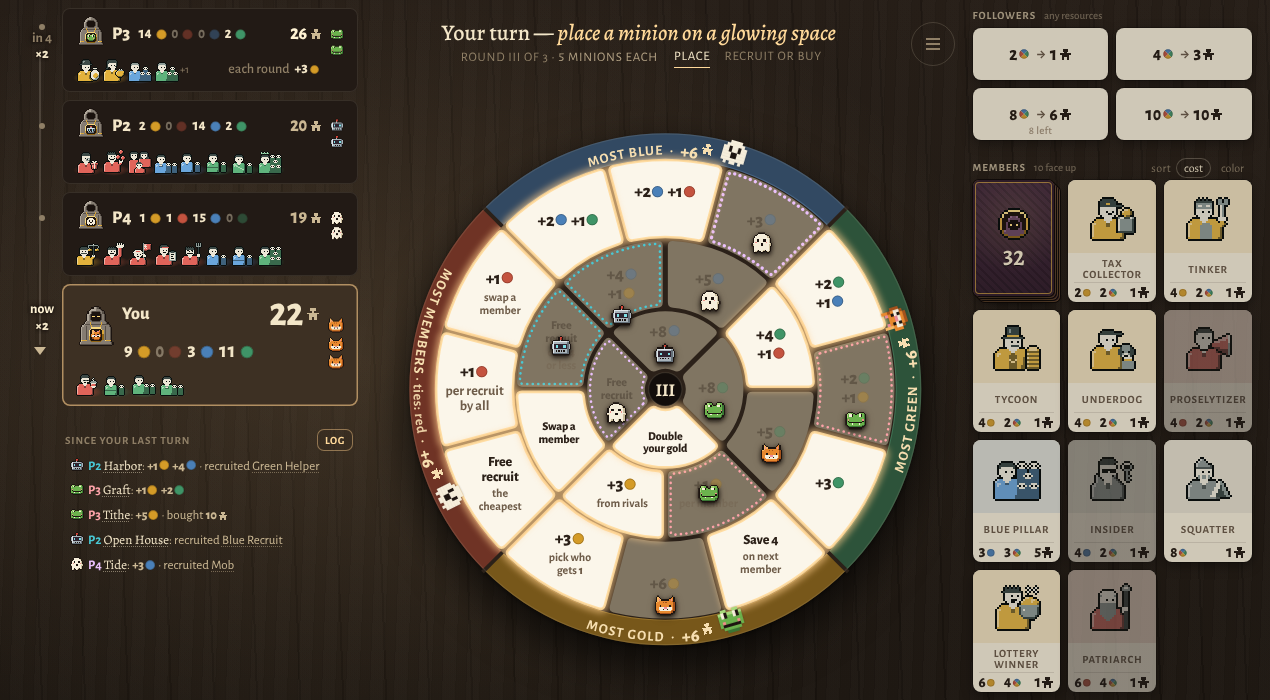
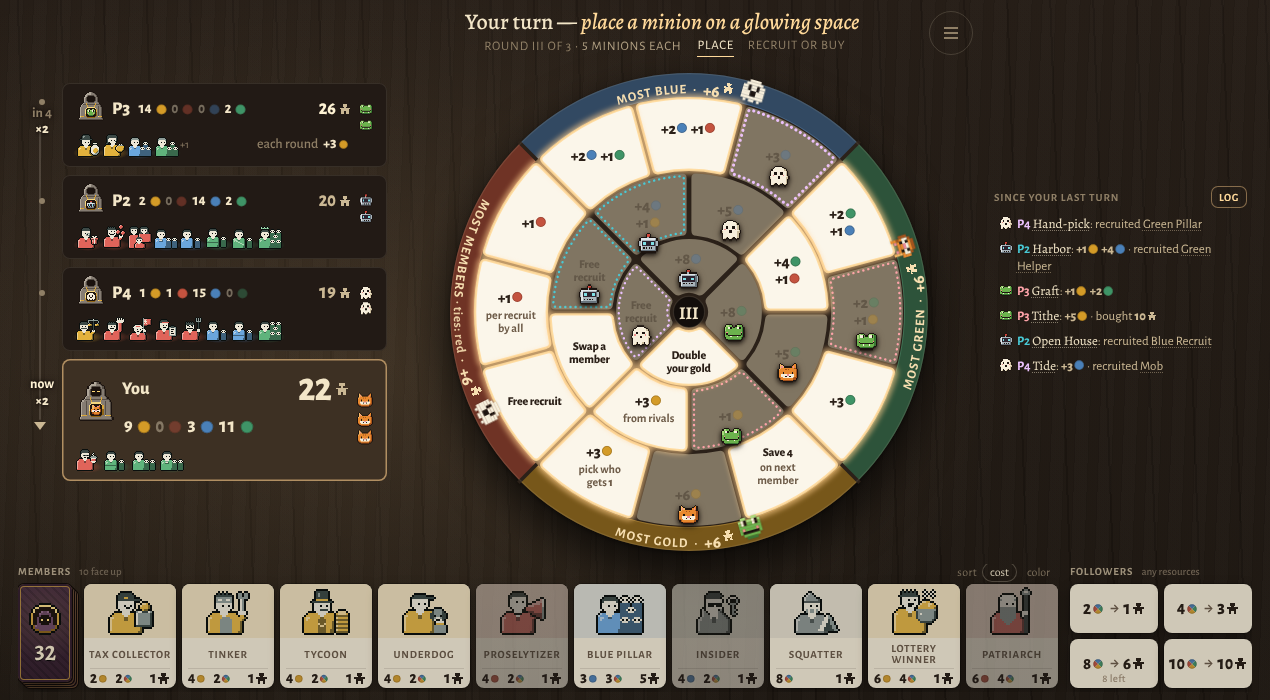
QA: shared e2e answer helper, drivers ported; agents in progress
Claude-Session: https://claude.ai/code/session_017rw3aQa9iJEjdvvwQLY84z

diff --git a/src/v4/game/Reckoning.jsx b/src/v4/game/Reckoning.jsx
@@ -9,13 +9,15 @@
 // the scoring snapshot for an old save.
 import { useEffect, useLayoutEffect, useRef, useState } from 'react';
 import { scoredStandings, standings, playerColor } from '../format.js';
-import { playerAnchor, motionOK, flyToken } from './flight.js';
+import { playerAnchor, motionOK, flyToken, expectArrival, pulse, track } from './flight.js';
+import { MO, flightMs } from '../motion.js';
 import Tick from './Tick.jsx';
 
-export const STEP_MS = 2900;   // one quadrant with a winner: the count, the verdict, the prize's flight, the climb
-export const QUIET_MS = 1700;  // one where no one scores
-export const VERDICT_MS = 1000; // the counts have ticked up: the caption names the winner
-export const FLY_MS = 900;     // the prize's flight from the rim plaque to the winner's total
+// The pace (the motion language's B6, grammar.md; Cory: "readable, one quadrant at a time"): about 1.6s a rim at
+// Steady, every step moving. The rim lights; the counts stamp in seat by seat and tick up (no still "counting…"); the
+// leader's count and its emoji on the rim hop; the prize arcs off the rim's engraving to the winner's count, which
+// rolls the moment it lands; a short rest; the next rim. A rim nobody scores pulses once, dim, and moves on.
+// Every duration scales with the viewer's animation speed (src/v4/motion.js).
 
 /** The round's contests as scored: [{ qid, rule, prize, rows:[{ id, shown }], winners:[ids] }]. */
 export function reckonRows(info) {
@@ -30,6 +32,8 @@ export default function Reckoning({ info, root, onDone, onLamp, onPaid, meId = n
   const rows = useRef(reckonRows(info)).current;
   const [step, setStep] = useState(0); // which quadrant is paying (rows.length = finished)
   const [beat, setBeat] = useState(0); // within it: 0 counting, 1 the verdict (the prize in the air), 2 landed
+  const [seen, setSeen] = useState(0); // how many seats' counts have stamped in so far
+  const [atTop, setAtTop] = useState(false); // the card sits on the far side of the wheel from the rim it scores
   const [spots, setSpots] = useState({}); // pid -> { left, top } of that player's chair, for the count chips
   const done = useRef(false);
   const finish = () => { if (!done.current) { done.current = true; onLamp && onLamp(null); onDone(); } };
@@ -58,24 +62,71 @@ export default function Reckoning({ info, root, onDone, onLamp, onPaid, meId = n
     if (step >= rows.length) { const t = setTimeout(finish, reduced ? 0 : 400); return () => clearTimeout(t); }
     const row = rows[step];
     setBeat(0);
+    setSeen(0);
     if (onLamp) onLamp(row.qid);
     if (typeof window !== 'undefined') window.__patronsReckon = (window.__patronsReckon || 0) + 1;
     const won = row.winners.length > 0;
-    const at = reduced ? { verdict: 0, fly: 0, land: 0, next: 60 } : { verdict: VERDICT_MS, fly: VERDICT_MS + 200, land: VERDICT_MS + 200 + FLY_MS - 60, next: won ? STEP_MS : QUIET_MS };
-    const timers = [setTimeout(() => setBeat(1), at.verdict)];
-    if (won) timers.push(setTimeout(() => {
-      if (!root) return;
-      const plaque = root.querySelector(`[data-plaque="${row.qid}"]`);
+    const plaque = root && root.querySelector(`[data-plaque="${row.qid}"]`);
+    // the card never covers the rim it scores: a rim in the wheel's lower half sends it to the top
+    if (root && plaque) {
+      const stage = root.querySelector('.lt-wheel .stage') || root.querySelector('.stage');
+      const pr = plaque.getBoundingClientRect(), sr = stage ? stage.getBoundingClientRect() : null;
+      setAtTop(!!(sr && pr.top + pr.height / 2 > sr.top + sr.height / 2));
+    }
+    const timers = [];
+    let cancelled = false;
+    if (reduced) {
+      setSeen(row.rows.length); setBeat(1);
+      timers.push(setTimeout(() => { if (onPaid) onPaid(step + 1); setBeat(2); }, 200), setTimeout(() => setStep(s => s + 1), 400));
+      return () => timers.forEach(clearTimeout);
+    }
+    if (!won && !row.rows.some(r => r.shown > 0)) {
+      // nobody scores and nobody counts: the rim pulses once, dim, and the Reckoning moves on
+      if (plaque) pulse(plaque, MO.reckonQuiet);
+      timers.push(setTimeout(() => setBeat(1), 60), setTimeout(() => setStep(s => s + 1), MO.reckonQuiet));
+      return () => timers.forEach(clearTimeout);
+    }
+    // the counts stamp in seat by seat and tick up (the counting is the motion)
+    row.rows.forEach((r, k) => timers.push(setTimeout(() => setSeen(n => Math.max(n, k + 1)), k * MO.reckonStagger)));
+    const counted = (row.rows.length - 1) * MO.reckonStagger + MO.reckonTick;
+    // the verdict: the leader's count and its emoji on the rim hop
+    timers.push(setTimeout(() => {
+      setBeat(1);
       for (const id of row.winners) {
-        // the prize lands on the number it raises: the winner's total on their chair
-        const home = root.querySelector(`.lt-seat[data-pid="${id}"] .cs-total`) || playerAnchor(root, id);
-        if (plaque && home) flyToken(plaque, home, `<b class="reckon-token" style="--pc:${playerColor(id)}">+${row.prize}</b>`, { tag: 'reckon', duration: FLY_MS });
+        const e = root && root.querySelector(`[data-rim-leader="${id}"]`);
+        if (e && e.animate) track(e.animate([{ transform: 'translateY(0)' }, { transform: 'translateY(-5px)', offset: 0.4 }, { transform: 'translateY(0)' }], { duration: MO.hop, easing: 'cubic-bezier(.3,1.4,.5,1)', composite: 'add' }));
       }
-    }, at.fly));
-    // the prize reaches the chairs' totals as it lands
-    timers.push(setTimeout(() => { if (onPaid) onPaid(step + 1); setBeat(2); }, at.land));
-    timers.push(setTimeout(() => setStep(s => s + 1), at.next));
-    return () => timers.forEach(clearTimeout);
+      if (!won) timers.push(setTimeout(() => setStep(s => s + 1), MO.hop + MO.reckonRest));
+    }, counted));
+    if (won) timers.push(setTimeout(() => {
+      // the prize lifts off the rim's engraving and arcs to the number it raises: the winner's total on their chair,
+      // which rolls the moment it lands
+      let landed = 0, longest = 0;
+      const land = () => {
+        if (cancelled || ++landed < row.winners.length) return;
+        for (const id of row.winners) {
+          const home = root && root.querySelector(`.lt-cult-seat[data-seat="${id}"] .cs-total`);
+          if (home) expectArrival(home, performance.now(), 0, true);
+        }
+        if (onPaid) onPaid(step + 1);
+        setBeat(2);
+        timers.push(setTimeout(() => setStep(s => s + 1), MO.roll + MO.reckonRest));
+      };
+      row.winners.forEach((id, k) => {
+        const home = root && (root.querySelector(`.lt-cult-seat[data-seat="${id}"] .cs-total`) || playerAnchor(root, id));
+        if (!plaque || !home) { land(); return; }
+        const a = plaque.getBoundingClientRect(), b = home.getBoundingClientRect();
+        const d = flightMs(Math.hypot(b.left - a.left, b.top - a.top));
+        longest = Math.max(longest, d);
+        const go = () => {
+          const anim = flyToken(plaque, home, `<b class="reckon-token" style="--pc:${playerColor(id)}">+${row.prize}</b>`, { tag: 'reckon', duration: d });
+          if (anim && anim.finished) anim.finished.then(land, land); else land();
+        };
+        if (k) timers.push(setTimeout(go, k * MO.fan)); else go();
+      });
+      void longest;
+    }, counted + MO.hop));
+    return () => { cancelled = true; timers.forEach(clearTimeout); };
   }, [step]); // eslint-disable-line react-hooks/exhaustive-deps
 
   useEffect(() => {
@@ -94,20 +145,20 @@ export default function Reckoning({ info, root, onDone, onLamp, onPaid, meId = n
   const shownBeat = step < rows.length ? beat : 2;
   return (
     <div className="lt-reckon" role="dialog" aria-modal="true" aria-label={`Round ${info.result.round} reckoning`} data-reckon={row ? row.qid : ''} onClick={finish}>
-      <div className="reckon-head" style={{ '--c': row ? `var(--${row.qid})` : undefined }} aria-live="polite">
+      <div className={`reckon-head${atTop ? ' at-top' : ''}`} style={{ '--c': row ? `var(--${row.qid})` : undefined }} aria-live="polite">
         <small>Round {info.result.round} scoring · {Math.min(step + 1, rows.length)} of {rows.length}</small>
         {row && <b className="reckon-rule">{row.rule}</b>}
         {row && row.counts && <span className="reckon-counts">Counts {row.counts}{row.tiebreak && row.tiebreak.text ? `; ${row.tiebreak.text}` : ''}.</span>}
-        <b data-reckon-head className={`reckon-verdict${shownBeat ? ' on' : ''}${row && !row.winners.length ? ' none' : ''}`}>{shownBeat ? verdict : 'counting…'}</b>
+        <b data-reckon-head className={`reckon-verdict${shownBeat ? ' on' : ''}${row && !row.winners.length ? ' none' : ''}`}>{shownBeat ? verdict : '\u00a0'}</b>
         <span className="reckon-dots" aria-hidden="true">{rows.map((r, k) => <i key={r.qid} className={k < step ? 'done' : k === step ? 'on' : ''} style={{ '--c': `var(--${r.qid})` }} />)}</span>
       </div>
-      {row && step < rows.length && row.rows.map(r => {
+      {row && step < rows.length && row.rows.map((r, k) => {
         const at = spots[r.id];
-        if (!at) return null;
+        if (!at || k >= seen) return null;
         const won = shownBeat > 0 && row.winners.includes(r.id);
         return (
           <span key={`${row.qid}-${r.id}`} className={`reckon-count${won ? ' won' : ''}`} data-reckon-count={r.id} style={{ left: at.left, top: at.top, '--pc': playerColor(r.id), '--c': `var(--${row.qid})` }}>
-            <Tick value={r.shown} from={0} className="num" float={false} dur={reduced ? 0 : 700} />
+            <Tick value={r.shown} from={0} className="num" float={false} dur={reduced ? 0 : MO.reckonTick} />
           </span>
         );
       })}

diff --git a/src/v4/lamp.css b/src/v4/lamp.css
@@ -458,6 +458,11 @@ h1,h2,h3{font-family:var(--serif)}
 .lt[data-phase="reckon"] .lt-seat{filter:brightness(.8);transition:filter .3s}
 .lt-reckon .reckon-head{position:absolute;left:50%;bottom:14px;transform:translateX(-50%);display:flex;flex-direction:column;align-items:center;gap:3px;padding:10px 26px 10px;border-radius:14px;
   background:linear-gradient(180deg,var(--paper),var(--paper-2));color:var(--paper-ink);box-shadow:0 0 0 2px var(--c,var(--paper-edge)),0 14px 30px rgba(0,0,0,.55);min-width:min(420px, 92vw);text-align:center}
+/* the card never covers the rim it scores: a rim in the wheel's lower half sends it to the top (motion review #29) */
+.lt-reckon .reckon-head.at-top{bottom:auto;top:14px}
+/* a seat's count stamps in, then ticks (the counting is the motion, #30); the leader's count hops once */
+.lt-reckon .reckon-count{animation:reckonstamp var(--mo-land) cubic-bezier(.3,1.5,.5,1) both}
+@keyframes reckonstamp{from{opacity:0;scale:1.25}to{opacity:1;scale:1}}
 .lt-reckon .reckon-head small{font-size:11px;letter-spacing:.16em;text-transform:uppercase;color:var(--paper-ink-3)}
 .lt-reckon .reckon-head b{font-family:var(--serif);font-size:22px;line-height:1.15}
 /* the caption over the dimmed shop (clear of the wheel's plaques): what is scored, what it counts, then who wins */
@@ -474,7 +479,7 @@ h1,h2,h3{font-family:var(--serif)}
 .lt-reckon .reckon-dots i.on{background:var(--c);opacity:1;box-shadow:0 0 8px var(--c)}
 .lt-reckon .reckon-count{position:fixed;transform:translate(0,-50%);display:inline-flex;align-items:center;gap:6px;padding:4px 12px;border-radius:999px;
   background:var(--paper);color:var(--paper-ink);font-family:var(--sans);font-weight:800;font-size:18px;box-shadow:0 0 0 2px var(--c),0 8px 18px rgba(0,0,0,.5);pointer-events:none;animation:rise .25s ease-out}
-.lt-reckon .reckon-count.won{box-shadow:0 0 0 3px var(--lamp-ink),0 0 22px 6px rgba(var(--lamp),.6);animation:reckonwin .5s ease-out 2}
+.lt-reckon .reckon-count.won{box-shadow:0 0 0 3px var(--lamp-ink),0 0 22px 6px rgba(var(--lamp),.6);animation:reckonstamp var(--mo-land) cubic-bezier(.3,1.5,.5,1) both,reckonwin calc(180ms * var(--mo-scale)) ease-out 1}
 @keyframes reckonwin{50%{transform:translate(0,-50%) scale(1.18)}}
 .lt-reckon .reckon-skip{position:absolute;right:18px;bottom:18px;min-height:44px;padding:0 18px;color:var(--cream);border-color:rgba(243,230,200,.4);background:rgba(29,22,17,.7)}
 .token-flight{position:fixed;z-index:45;pointer-events:none;display:grid;place-items:center;will-change:transform}

diff --git a/src/v4/game/flight.js b/src/v4/game/flight.js
@@ -153,9 +153,8 @@ export function flyToken(fromEl, toEl, html, { tag = '', duration = MO.reckonTok
   const size = 34;
   const a = { left: f.left + f.width / 2 - size / 2, top: f.top + f.height / 2 - size / 2, width: size, height: size };
   const b = { left: t.left + t.width / 2 - size / 2, top: t.top + t.height / 2 - size / 2, width: size, height: size };
-  ghostFly(html, `token-flight ${tag}`.trim(), a, b, { duration, scaleTo: 0.9, fadeTo: 0.15, arc: 70 });
-  if (toEl.animate) toEl.animate([{ transform: 'scale(1)' }, { transform: 'scale(1.12)' }, { transform: 'scale(1)' }], { duration: 420, delay: duration - 80, easing: 'ease-out' });
-  return true;
+  const anim = ghostFly(html, `token-flight ${tag}`.trim(), a, b, { duration, scaleTo: 0.9, fadeTo: 0.15, arc: 70 });
+  return anim || true;
 }
 
 /** Where every placed minion is right now (to send them home when the round clears the wheel). */
@@ -216,14 +215,15 @@ export function slideShop(root, snap) {
 // on a follower count). Decoration only: nothing waits on a piece, and input is never blocked.
 
 const arrivals = new WeakMap(); // destination element → { at, span }: when its first piece lands and how long the rest take
-/** Pieces will land on `el` from `at` (performance.now ms) for `span` ms: its number counts as they arrive (Tick). */
-export function expectArrival(el, at, span) { if (el && el.nodeType === 1) arrivals.set(el, { at, span }); }
+/** Pieces will land on `el` from `at` (performance.now ms) for `span` ms: its number counts as they arrive (Tick).
+ *  `landed`: they already have (the number rolls the moment it changes). */
+export function expectArrival(el, at, span, landed = false) { if (el && el.nodeType === 1) arrivals.set(el, { at, span, landed }); }
 export function clearArrivals(els) { for (const el of els) arrivals.delete(el); }
 /** When pieces are flying to `el` (or an ancestor of it): { delay, span } in ms from now, else null. Tick reads it. */
 export function arrivalFor(el) {
   for (let e = el; e && e.nodeType === 1; e = e.parentElement) {
     const a = arrivals.get(e);
-    if (a) { const now = performance.now(); return a.at + a.span + 1500 > now ? { delay: Math.max(0, a.at - now), span: a.span, el: e } : null; }
+    if (a) { const now = performance.now(); return a.at + a.span + 1500 > now ? { delay: Math.max(0, a.at - now), span: a.span, el: e, landed: !!a.landed } : null; }
   }
   return null;
 }

diff --git a/src/v4/game/Tick.jsx b/src/v4/game/Tick.jsx
@@ -27,7 +27,8 @@ export default function Tick({ value, from, color, className = '', float = true,
     // pieces flying here (flight.js flyGains): the count starts as the first one lands and runs while the rest do
     const coming = dur ? null : arrivalFor(box.current);
     const wait = coming ? coming.delay : 0;
-    const ms = Math.max(countMs(d, dur), coming ? coming.span + 120 : 0);
+    // pieces landing here: the number rolls as they land (MO.roll, at full brightness), never on a slow count of its own
+    const ms = coming ? Math.max(MO.roll, coming.span + 120) : countMs(d, dur);
     const timers = [];
     // the number lights up as it starts to count (with flying pieces: as the first one lands, never before)
     if (!coming) { setBump(d > 0 ? 1 : -1); timers.push(setTimeout(() => setBump(0), ms + 220)); }
@@ -40,14 +41,15 @@ export default function Tick({ value, from, color, className = '', float = true,
     if (reducedMotion() || typeof requestAnimationFrame !== 'function') { setShown(value); return () => timers.forEach(clearTimeout); }
     // with pieces coming, the count starts when the first one lands (the director says so; the plan's time is the
     // fallback), however late a loaded box paints it
-    let t0 = coming ? Infinity : performance.now();
+    let t0 = coming && !coming.landed ? Infinity : performance.now();
     const go = () => {
       if (t0 !== Infinity) return;
       t0 = performance.now();
       setBump(d > 0 ? 1 : -1);
       timers.push(setTimeout(() => setBump(0), ms + 220));
     };
-    if (coming) {
+    if (coming && coming.landed) { setBump(d > 0 ? 1 : -1); timers.push(setTimeout(() => setBump(0), ms + 220)); }
+    if (coming && !coming.landed) {
       coming.el.addEventListener('patrons:land', go, { once: true });
       timers.push(setTimeout(go, wait + 600));
     }

diff --git a/src/v4/game/ShopCards.jsx b/src/v4/game/ShopCards.jsx
@@ -58,7 +58,9 @@ function ShopCards({ state, me, mySeats = [], optionFor = () => null, onPick, on
   const buying = mine && pend.kind === 'buy';
   const placing = mine && pend.kind === 'place';
   // the board picker (boardPick.js): a choice that names face-up members lights them like a buy, the rest recede
-  const picking = mine && pend.kind === 'choose' && state.shop.some(u => optionFor(`card:${u}`));
+  // any choice (a steal, a gift, a copy, a recruit from the row): only what it offers here stays bright; the rest of the
+  // shop steps back, so the lit stacks or spaces you're choosing from are the brightest thing (design pod)
+  const picking = mine && pend.kind === 'choose';
   const pointer = useRef('mouse');
   const rowRef = useRef(null), deckRef = useRef(null);
   const [sort, setSortState] = useState(readSort);
@@ -134,7 +136,7 @@ function ShopCards({ state, me, mySeats = [], optionFor = () => null, onPick, on
       </div>
       </div>
       </div>
-      <FollowerRates state={state} me={me} optionFor={optionFor} onPick={onPick} onDenied={onDenied} buying={buying} />
+      <FollowerRates state={state} me={me} optionFor={optionFor} onPick={onPick} onDenied={onDenied} buying={buying || picking} />
       <ShopTicks state={state} viewer={viewer} placing={placing} hover={hover} rowRef={rowRef} />
     </section>
   );

diff --git a/src/v4/game/layout.css b/src/v4/game/layout.css
@@ -18,7 +18,9 @@
   /* the chairs stack from the column's top (GameScreen reads --seats-align and writes --seats-end, their foot) */
   .app.game.lt > .lt-snake{grid-area:seats;--seats-align:start}
   .app.game.lt > .lt-since{grid-area:seats;align-self:start;margin:calc(var(--seats-end, 0px) + 20px) 0 0 44px;
-    max-height:calc(100% - var(--seats-end, 0px) - 20px - 112px)} /* 112: room for the turn card under it */
+    max-height:calc(100% - var(--seats-end, 0px) - 20px)}
+  /* while a turn is being told, its card docks under the story: the story gives it room (oldest lines go first) */
+  .app.game.lt:has(> .turn-card) > .lt-since{max-height:calc(100% - var(--seats-end, 0px) - 20px - 112px)}
   /* the story clips its oldest lines first, never the newest (the whole log is one tap away) */
   .app.game.lt > .lt-since .since-list{min-height:0;overflow:hidden;justify-content:flex-end}
   .app.game.lt > .lt-since .since-list > li{flex:none}

diff --git a/src/v4/v4.css b/src/v4/v4.css
@@ -529,6 +529,8 @@ td.rank{font-weight:700}
 .pl .fol .floater{bottom:auto;top:50%}
 .tick.bump,.tick.dip{animation:bump .42s cubic-bezier(.3,.7,.4,1)}
 .tick.bump{color:var(--tc,inherit)}
+/* a follower count rolls at full brightness as its pieces land (motion review #28): never dimmed into a seat's color */
+.lt-cult-seat .cs-total .tick.bump{color:inherit;text-shadow:0 0 8px rgba(255,236,200,.65);animation-duration:var(--mo-bump)}
 @keyframes bump{0%{transform:scale(1)}35%{transform:scale(1.22)}100%{transform:scale(1)}}
 .gift.change{border-color:var(--rim);font-variant-numeric:tabular-nums}
 .gift{position:absolute;right:8px;bottom:6px;background:var(--table-2);border:1px solid var(--c);color:var(--ink);font-size:var(--fs-2);font-weight:700;border-radius:999px;padding:1px 8px;animation:giftin 2.2s ease-out forwards;pointer-events:none}

diff --git a/src/v4/motion.js b/src/v4/motion.js
@@ -133,6 +133,12 @@ const TABLE = {
   minionsHome: [260,   340,    480],
   minionsHomeStagger: [20, 30,   45],
   incomeSeat:  [120,   200,    320],
+  // the Reckoning (grammar B6, about 1.6s a rim at Steady): the counts stamp in seat by seat and tick up, the leader
+  // hops, the prize arcs from the rim to the winner's count, which rolls as it lands; a rest; the next rim
+  reckonStagger: [60,  100,    150],
+  reckonTick:  [200,   300,    450],
+  reckonRest:  [60,    120,    200],
+  reckonQuiet: [150,   250,    400],  // a rim nobody scores: it pulses once, dim, and the Reckoning moves on
 };
 const IDX = { quick: 0, steady: 1, relaxed: 2 };
 

diff --git a/design/prototypes/motion/review.md b/design/prototypes/motion/review.md
@@ -146,3 +146,16 @@ The take reads right. P2's gold is lit, the pieces leave it and travel straight 
 
 ## Round 11 (06:11, filmstrip of a rival turn with reduced motion on)
 36. **Reduced motion: right that nothing travels, but slow, and nothing marks what changed.** No piece, minion or card flies ✓. Each step's end state appears at once: P3's squat at 600ms, then its release at about 1200. But the steps are about 600ms apart (the old bot pace), so a rival turn takes 1.2–1.8s, against H14's ≤ 0.8s. And no place that changed is marked, so a player who can't watch motion can't find what moved. §6: each beat's numbers crossfade (120ms), the changed place gets a 1px light outline for 400ms, and beats come about 150ms apart in order. Lower priority than 33, 23 and 35.
+
+## Round 12 (06:17, re-filmed on the 06:05–06:11 code)
+`review-r12-recruit-0-200.png`, `review-r12-skip-numbers.png`.
+
+Verified fixed (load-free filmstrips):
+- **23:** at 0ms the recruited chip isn't in your crowd yet (its gap is there), red reads 5, and the Intern is still in the shop. The coin leaves at about 150ms. No end state flashes any more.
+- **35:** a skip at 200ms shows the final 10 in the next frame (216ms). H11 is met.
+- **20 / 33:** the gain's roll counts every number (5 → 7 → 8 → 9 → 10, 600–850ms) and starts as the bundle's tail lands. There's no jump and no early number.
+
+New:
+37. **The 600ms bot floor on a step with a hand-off costs 0.34s per wait.** (GameScreen: `Math.max(plan.handoff, min(rivalDwell, 600))` when the same bot moves next.) Plan probe, Steady, 8 games: the wait between your turns goes from 6.44s to **6.77s p50**, over H2's 6.5s. A rival's turn goes 1.85 → 1.88s, and its p95 2.83 → 2.93s. A 400ms floor costs nothing (6.44s): hand-offs are rarely shorter than 400ms. Fix: a 400ms floor, and update `e2e/v4/motion.mjs` m4 from "≥600ms apart" to "≥400ms apart", saying so in the commit: it pinned the old fixed bot pace, and Cory's call now is "clear and steady, not slow", with the chain setting the pace.
+
+Still open (not the engineer's files): 24 (the release's blank chip and order), 25 (hovers under a resting pointer), 7 / 27 (the turn card and header timing, GameScreen's turn-story code), 29–31 (the Reckoning, Reckoning.jsx: passed to the foreman), 36 (reduced-motion pacing). 14, 21, 22 and 28 are reported fixed by the engineer; not yet re-filmed.
